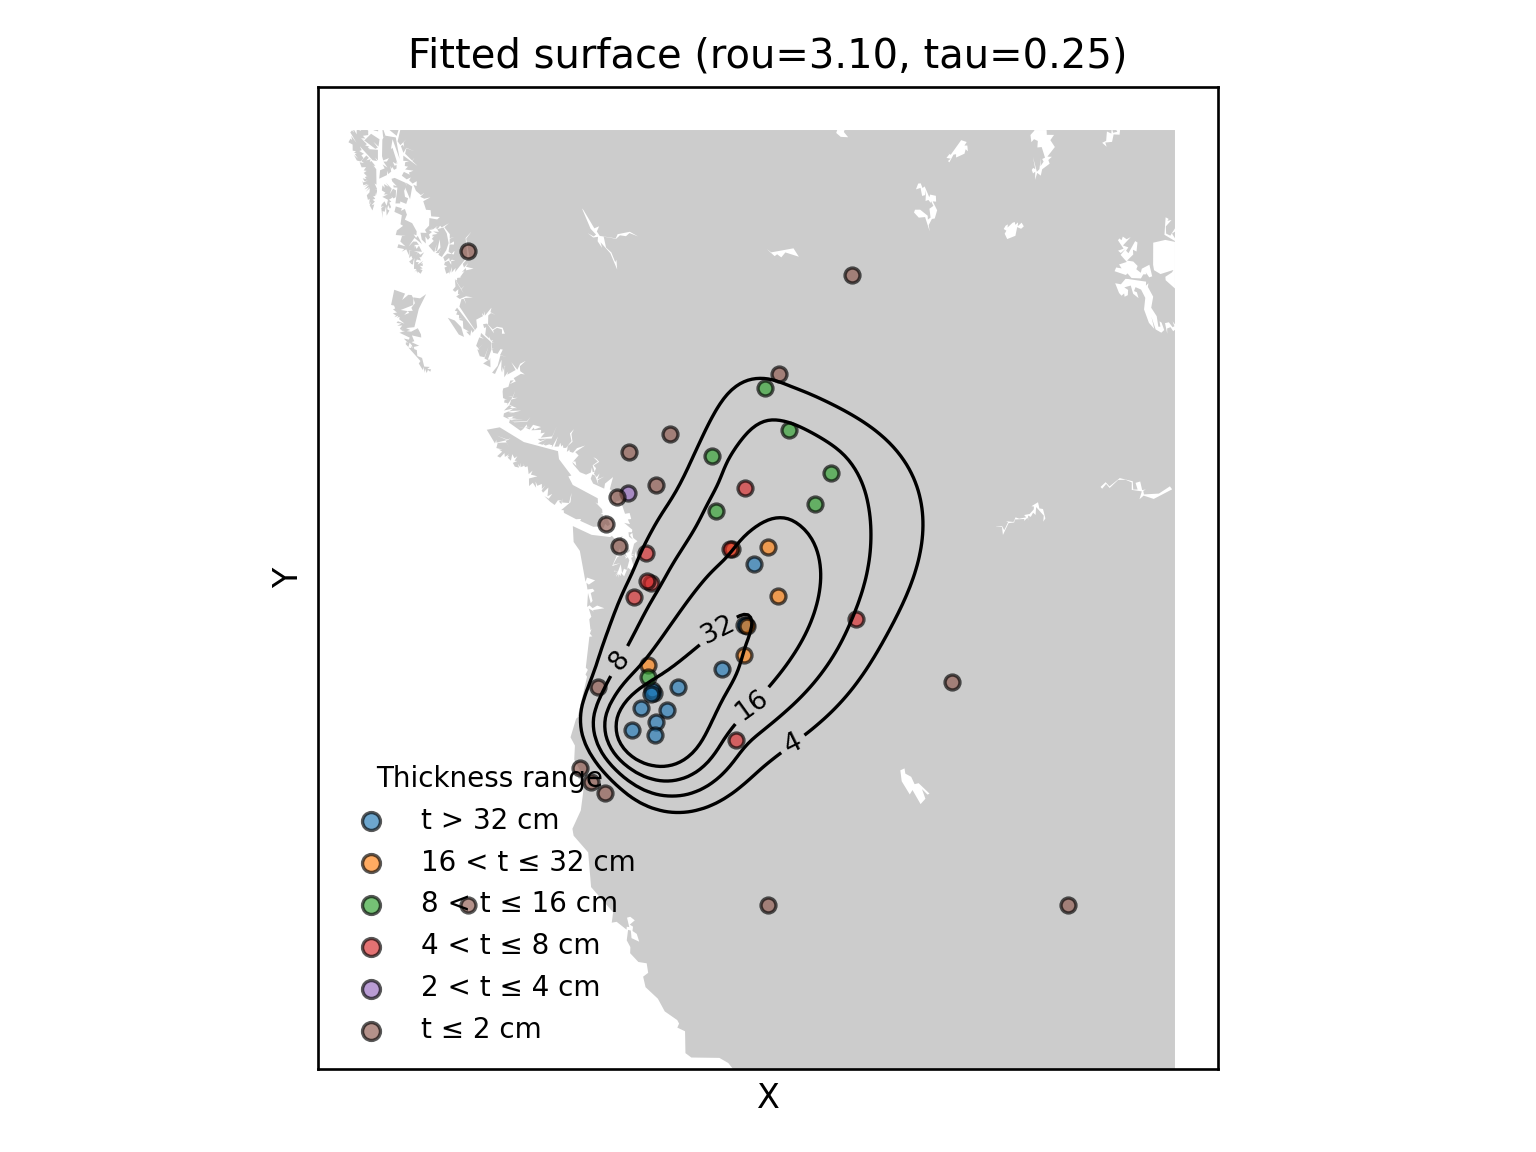
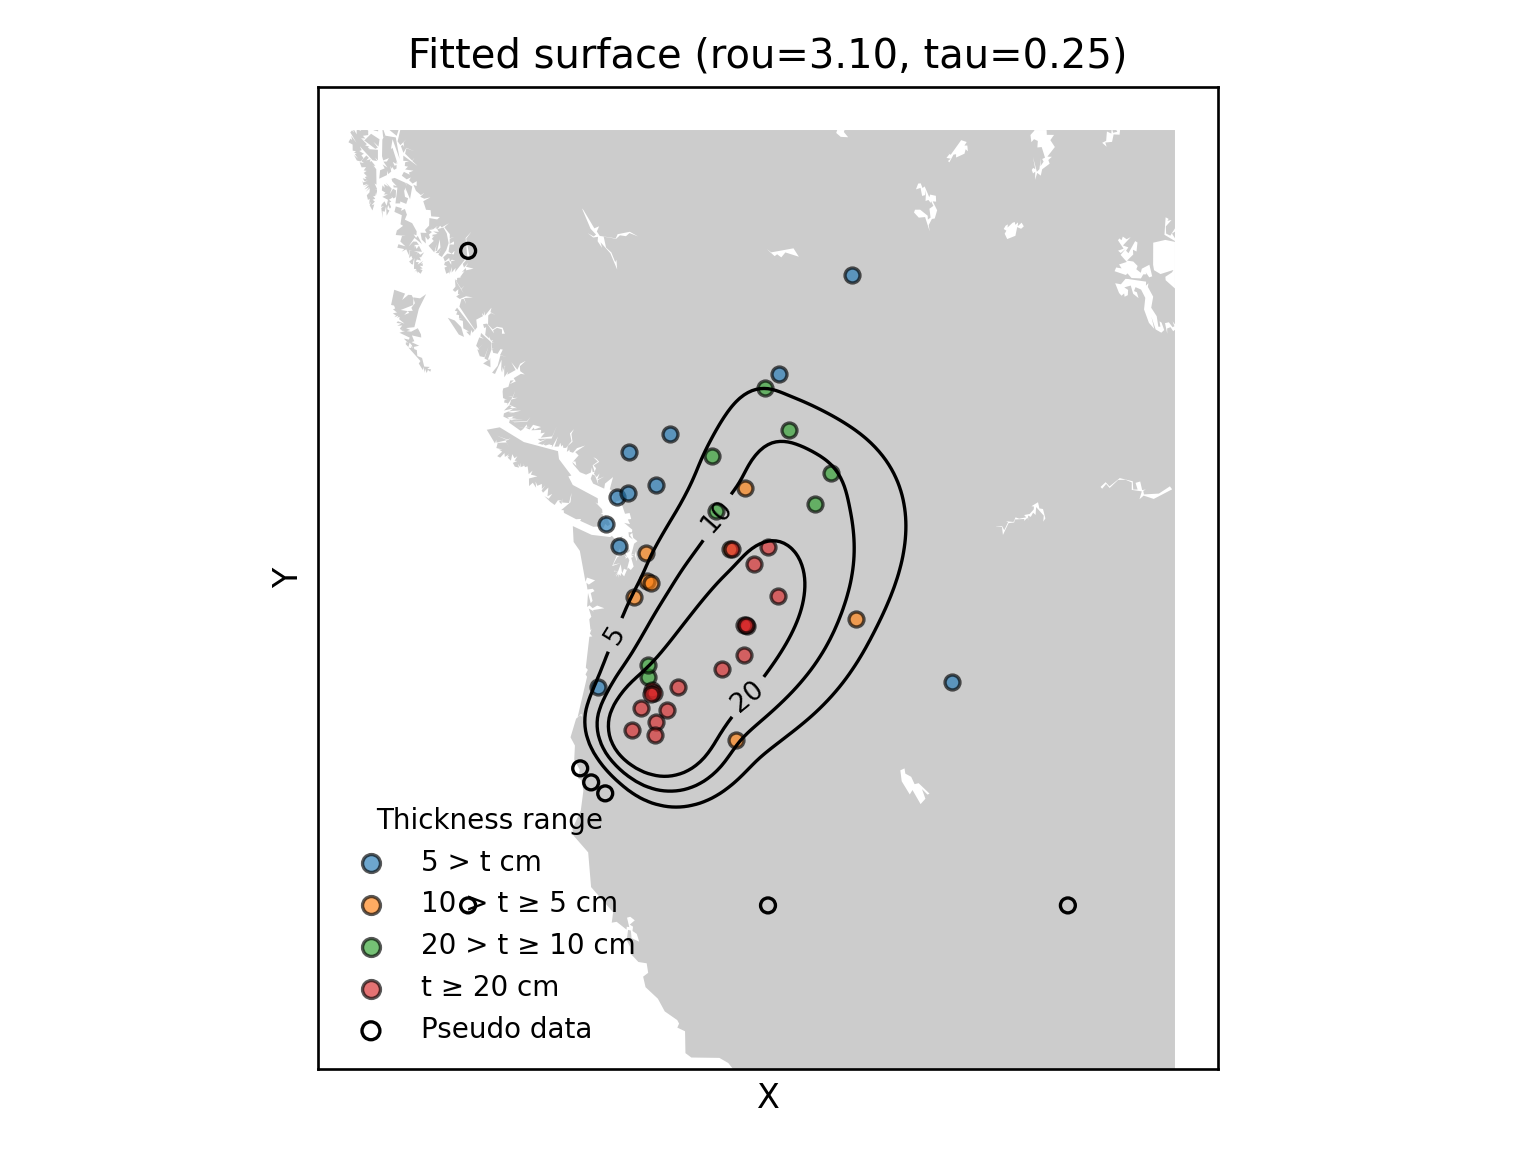
Add working code

Changed region(s): [[0.2188, 0.3125, 0.5938, 0.9062], [0.2188, 0.7812, 0.25, 0.9062], [0.6875, 0.7812, 0.7188, 0.8125]]

diff --git a/src/spline_isopach/lsf_bsplines2d.py b/src/spline_isopach/lsf_bsplines2d.py
@@ -13,7 +13,7 @@ except Exception:
 
 class LsfBsplines2d:
 
-    def __init__(self, xd, yd, fd, sd, tau, rou):
+    def __init__(self, xd, yd, fd, sd, tau, rou, meta):
         self.xd = xd
         self.yd = yd
         self.fd = np.log(fd)
@@ -24,6 +24,7 @@ class LsfBsplines2d:
         self.ymax = yd.max()
         self.tau = tau
         self.rou = rou
+        self.meta = meta
         self.unl, self.und, self.mx0, self.my0, self.n2 = self.domain_divisions()
         self.cij = np.zeros((self.my0 + 3) * (self.mx0 + 3))
 
@@ -39,7 +40,7 @@ class LsfBsplines2d:
                 x = polygonx[:,0]
                 y = polygonx[:,1]
                 area = area + 0.5 * np.abs(np.dot(x, np.roll(y, -1)) - np.dot(y, np.roll(x, -1)))
-            area = np.sqrt(area/10**6)
+            area = np.sqrt(area/10**6) # from m2 to km2
             areas.append((int(cs.levels[i]), round(area)))
         return areas  # [(thickness_1, area_1^0.5), (thickness_2, area_2^0.5), ...]
 
@@ -63,19 +64,39 @@ class LsfBsplines2d:
         ax.set_title(f"Fitted surface (rou={self.rou:.2f}, tau={self.tau:.2f})")
         CS = ax.contour(X*1000, Y*1000, Z_fit, levels=self.levels, colors='k', linewidths=1)
         ax.clabel(CS, inline=True, fontsize=8, fmt="%g")
-        masks = [
-            ('t > 32 cm', self.fd > np.log(32)),
-            ('16 < t ≤ 32 cm', (self.fd > np.log(16)) & (self.fd <= np.log(32))),
-            ('8 < t ≤ 16 cm', (self.fd > np.log(8)) & (self.fd <= np.log(16))),
-            ('4 < t ≤ 8 cm', (self.fd > np.log(4)) & (self.fd <= np.log(8))),
-            ('2 < t ≤ 4 cm', (self.fd > np.log(2)) & (self.fd <= np.log(4))),
-            ('t ≤ 2 cm', (self.fd <= np.log(2))),
-        ]
+
+        masks = []
+        for i in range(len(levels)+2):
+            if i == len(levels):
+                masks.append((f"t ≥ {t} cm", (self.fd >= np.log(t)) &
+                              (self.meta['pseudo'] != "Yes"))
+                             )
+                continue
+            elif i == len(levels)+1:
+                masks.append(('Pseudo data', self.meta['pseudo'] == "Yes")
+                             )
+                continue
+            t = levels[i]
+            if i == 0:
+                masks.append((f"{t} > t cm", (self.fd < np.log(t)) &
+                             (self.meta['pseudo'] != "Yes"))
+                             )
+            else:
+                masks.append((f"{t} > t ≥ {levels[i-1]} cm",
+                             (np.log(t) > self.fd) &
+                             (self.fd >= np.log(levels[i-1])) &
+                             (self.meta['pseudo'] != "Yes"))
+                             )
+
         colors = mpl.colormaps['tab10'].colors  # take first 5
         for i, (label, m) in enumerate(masks):
             x = self.xd[m]+offset_x
             y = self.yd[m]+offset_y
-            ax.scatter(x*1000, y*1000, label=label, s=20,
+            if i == len(masks)-1:
+                ax.scatter(x * 1000, y * 1000, label=label, s=20,
+                           facecolors='none', edgecolor="k")
+            else:
+                ax.scatter(x*1000, y*1000, label=label, s=20,
                         color=colors[i], edgecolor="k", alpha=0.65)
         ax.set_xlabel("X")
         ax.set_ylabel("Y")
@@ -89,7 +110,9 @@ class LsfBsplines2d:
         ax.legend(title="Thickness range", fontsize="small", title_fontsize="small",
                    scatterpoints=1, markerscale=1.2, frameon=False)
         plt.show()
-        fig.savefig("../../examples/Isopachs/Aso_4.png", dpi=240)
+        saving = input("Save the figure to examples/Isopachs [y/n]: ")
+        if saving == "y":
+            fig.savefig("../../examples/Isopachs/Result.png", dpi=240)
         plt.close()
         return CS
 

diff --git a/src/spline_isopach/__main__.py b/src/spline_isopach/__main__.py
@@ -5,28 +5,26 @@ import pandas as pd
 from mpl_toolkits.basemap import Basemap
 import matplotlib.pyplot as plt
 
-
 if __name__ == "__main__":
-    xd, yd, fd, meta = Laea.prepare_inputs_from_csv("../../examples/Data/Aso-4_tephra.csv",
+    path = input("Path to your data sheet (No input defaults to Mazama tephra datasheet): ")
+    if path == '':
+        path = "../../examples/Data/Aso-4_tephra.csv"
+    xd, yd, fd, meta = Laea.prepare_inputs_from_csv(path,
                                                     "Lon",
                                                     "Lat",
                                                     "Thickness",
                                                     "Vent Lon",
-                                                    "Vent Lat"
+                                                    "Vent Lat",
                                                     )
 
     # tau_v = [0.25, 0.75]
     # rou_v = [3.16, 1.33]
-    # xd = np.append(xd, 625)
-    # yd = np.append(yd, -800)
-    # fd = np.append(fd, 2)
-
     tau_v = [0.25]
-    rou_v = [6]
+    rou_v = [3.1]
     for i in range(len(tau_v)):
         tau = tau_v[i]
         rou = rou_v[i]
-        isopach = LsfBsplines2d(xd, yd, fd, np.zeros_like(fd), tau, rou)
+        isopach = LsfBsplines2d(xd, yd, fd, np.zeros_like(fd), tau, rou, meta)
         isopach.fit()
-        cs = isopach.graph_contour(meta['vent'], [ 5,10,20], 150, 150)
-        print(isopach.area_compute(cs))
+        cs = isopach.graph_contour((meta['vent_lonlat']), [5, 10, 20], 150, 150)
+        print("Thickness (cm), Area square root (km): ", isopach.area_compute(cs))

diff --git a/src/Laea.py b/src/Laea.py
@@ -32,13 +32,13 @@ def prepare_inputs_from_csv(csv_path: str, lon_col: str, lat_col: str, thickness
     t_cm = df[thickness_cm_col].to_numpy(dtype=float)
     x_km, y_km = fwd.transform(lon, lat)
     t_km = t_cm
+    pseudo = df['Pseudo']
     meta = {
-        "vent_lon": vent_lon,
-        "vent_lat": vent_lat,
+        "vent_lonlat": (vent_lon, vent_lat),
         "laea_crs": laea_crs,
         "transform_fwd": fwd,
         "transform_inv": inv,
         "n_points": len(t_km),
-        "vent": (vent_lon, vent_lat)
+        "pseudo": pseudo,
     }
     return x_km, y_km, t_km, meta
